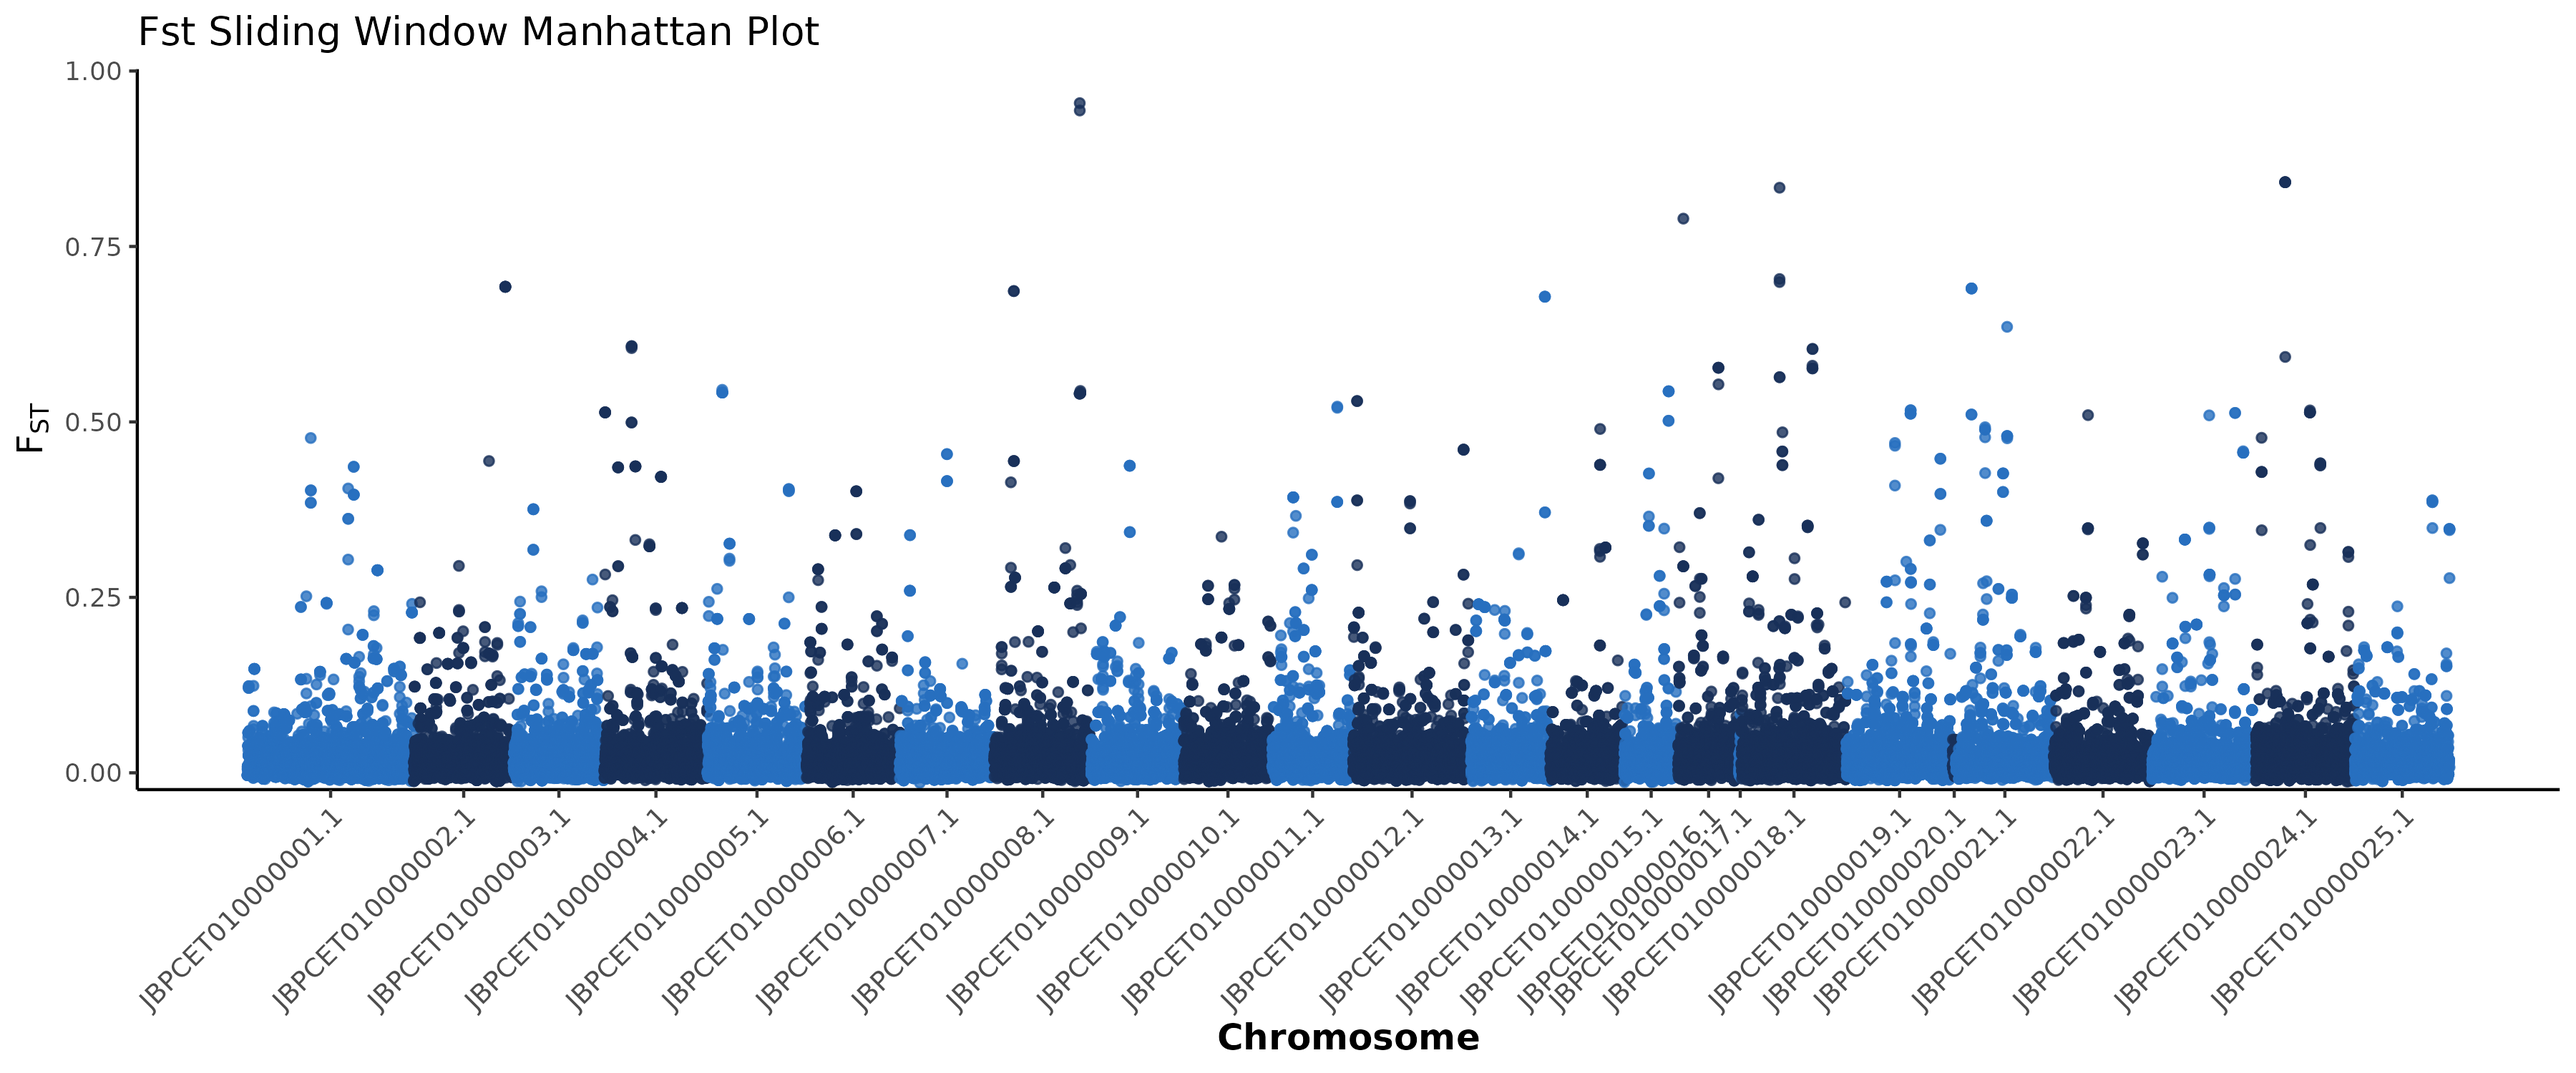
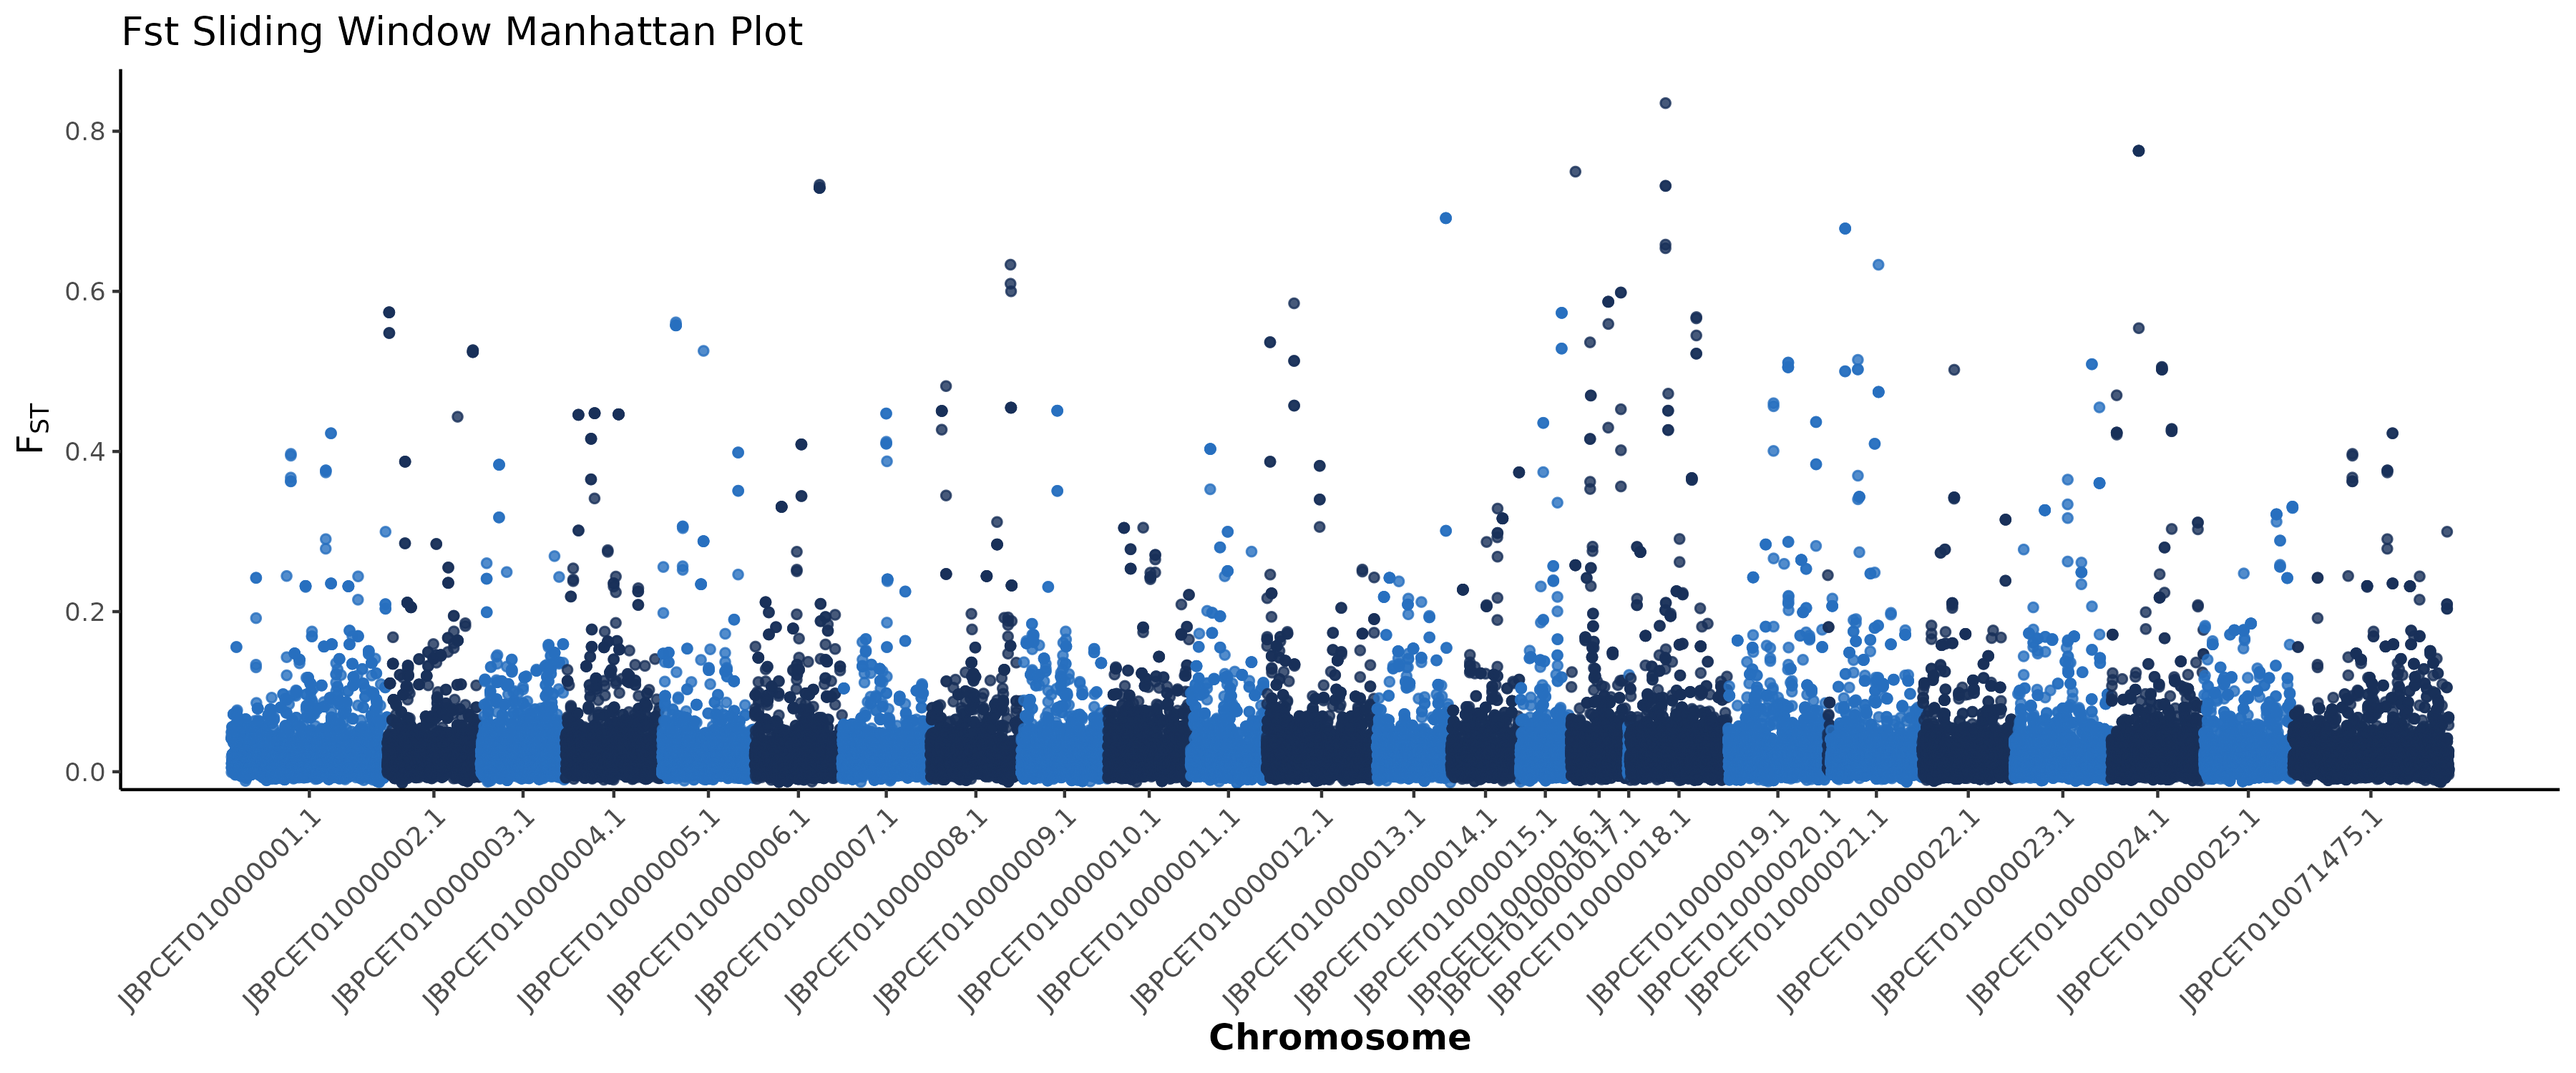
Updated nf-angsd-selection results

diff --git a/README.md b/README.md
@@ -694,13 +694,13 @@ module load container_env nextflow
 cd nf-pipelines/nf-angsd-selection
 nextflow run main.nf -profile wahab
 ```
-Ran in 2.5 hrs. The loci identified are in [site_counts.tsv](nf-pipelines/nf-angsd-selection/results/sites/site_counts.tsv).
+Ran in 5.5 hrs. The loci identified are in [site_counts.tsv](nf-pipelines/nf-angsd-selection/results/sites/site_counts.tsv).
 
 Which minind and maxdepth cutoffs were used? Look at the relevant angsd calls:
 ```
 grep -E "minInd|setMaxDepth" work/*/*/.command.sh | less
 ```
-| era | minInd | maxDepth |
+| era | minInd | setMaxDepth |
 |-----|--------|----------|
 | Historic | 25 | 338 |
 | Modern | 6 | 307 |
@@ -709,12 +709,12 @@ Found no SNPs under selection (see [`iteration_summary.tsv`](nf-pipelines/nf-ang
 
 The [PCA](nf-pipelines/nf-angsd-selection/results/PCAngsd/Cvi.pcangsd.plot.pdf) and [admixture](nf-pipelines/nf-angsd-selection/results/PCAngsd/Cvi.admixture.pdf) plots don't show strong outlier individuals.
 
-The weighted global FST is 0.0276. Low as expected. The [sliding window FST figure](nf-pipelines/nf-angsd-selection/results/fst/Bali_fst_manhattan.png) has a handful of windows with high Fst, but they are scattered and not obviously pointing towards a region with strong divergence.
+The [weighted global FST is 0.0264](nf-pipelines/nf-angsd-selection/results/fst/Bali_hist_vs_mod.global_fst.txt). Low as expected. The [sliding window FST figure](nf-pipelines/nf-angsd-selection/results/fst/Bali_fst_manhattan.png) has some windows with high Fst, but they are scattered and not obviously pointing towards a region with strong divergence.
 
 The [plot of pi](nf-pipelines/nf-angsd-selection/results/diversity/pi_historic_vs_modern_Bali.png) shows stable diversity through time.
 
 ### 12.1 Compare to a previous run
-An earlier pipeline (`nf-angsd-diversity-generode`) that didn't trim by maximum depth or minimum number of individuals, and that didn't enforce using the same loci between historical and modern populations produced a different diversity change result. Check how much the loci in that run differed between historical and modern:
+An earlier pipeline (`nf-angsd-diversity-generode`) that didn't trim by maximum depth or minimum number of individuals, and that didn't enforce using the same loci between historical and modern populations produced a different diversity change result (decline through time). Check how much the loci in that run differed between historical and modern eras:
 ```
 sbatch scripts/run_loci_comparison.sbatch
 ```
@@ -723,7 +723,7 @@ Historic-only loci: 1,563,052
 Modern-only loci:   2,698,682
 Shared loci:        451,583,420
 
-Less than 1% of loci differed between historical and modern. However, compare to 2,041,668 loci identified as callable by the nf-angsd-selection pipeline.
+Less than 1% of loci differed between historical and modern. However, compare to the only 2,041,668 loci identified as callable by the `nf-angsd-selection pipeline`. The `nf-angsd-diversity-generode` run seems to have included a lot of loci that failed to pass quality filters in one era or the other (likely not enough individuals represented in the historic era, since these were low depth).
 
 ### 12.2 Low depth and admixture
 Plotted admixture proportion vs. depth (latter from BAM_QC process):
@@ -785,10 +785,11 @@ The [K=2 proportions plot](output/dystruct/dystruct.selection.K2.pdf) looks a lo
 ### Clean up
 Modify .gitignore to track results/, but keep ignoring results/large_data.
 
-Remove the 5.9G temporary directory:
+Remove the 4.7G temporary directory:
 ```
 rm -r nf-pipelines/nf-angsd-selection/work/
 ```
+
 ## 13 ANGSD with >1x depth
 Malin, 2026 August. `Working in /archive/carpenterlab/pire/mpinsky/pire_chromis_viridis_lcwgs/nf-pipelines/nf-angsd-selection-1x`.
 
